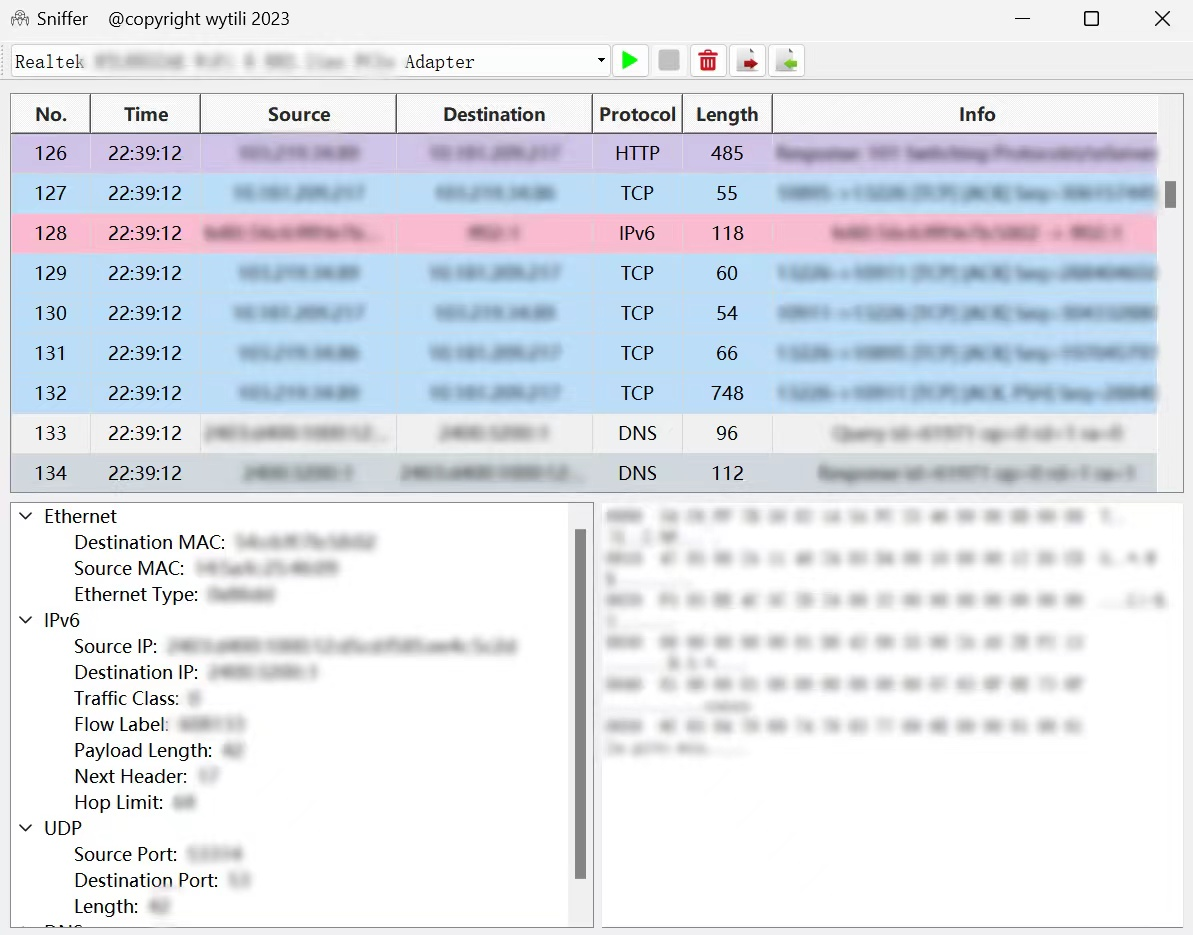
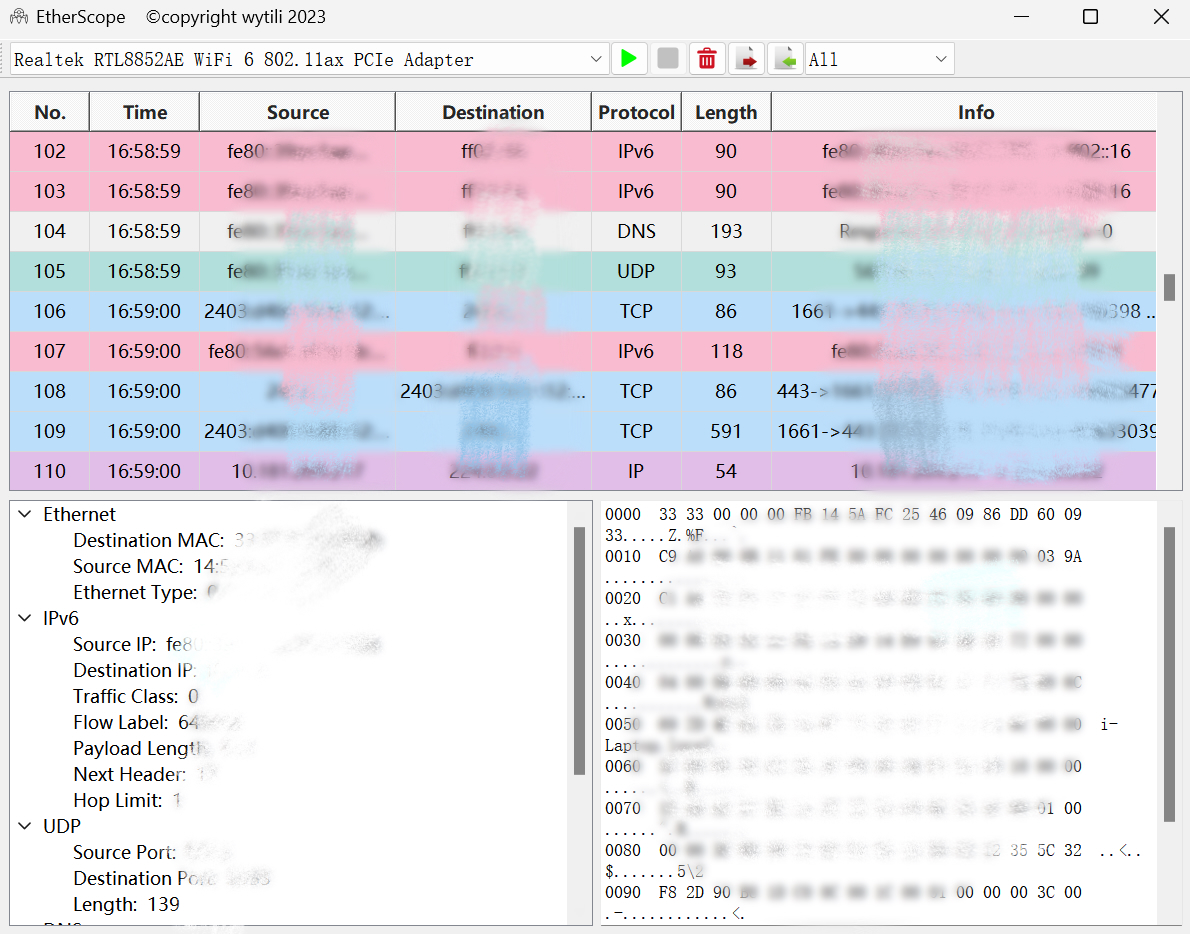
EtherScope v1.0.0

diff --git a/source/ui.py b/source/ui.py
@@ -24,7 +24,7 @@ class SnifferWindow(QMainWindow):
             ctypes.windll.shell32.SetCurrentProcessExplicitAppUserModelID("sniffer")
 
     def initUI(self):
-        self.setWindowTitle('Sniffer    ©copyright wytili 2023')
+        self.setWindowTitle('EtherScope    ©copyright wytili 2023')
         self.setWindowIcon(QIcon('assets/logo.svg'))
         self.setGeometry(300, 300, 1200, 900)
         self.create_central_widget()  # show packets in table

diff --git a/README.md b/README.md
@@ -1,7 +1,7 @@
 <p align="center">
   <img src="source/assets/logo.svg" width="100" height="100" style="vertical-align: middle;" />
 </p>
-<h1 align="center">Sniffer</h1>
+<h1 align="center">EtherScope</h1>
 
 
 > <p align="center">
@@ -12,12 +12,30 @@
 	<img src="source/assets/screenshot.jpg" width=650 height=500>
 </p>
 
+## QuickStart
 
+Download the latest executable from the [Releases page](https://github.com/wytili/EtherScope/releases).
+
+After downloading, double-click the executable file to start the application.
+
+## Start from Source
+
+1. **Install dependencies**
+
+   ```sh
+   pip install pyqt5 scapy
+   ```
+
+2. **Run**
+
+   ```sh
+   python main.py
+   ```
 
 ## File Structure
 
 ```
-Sniffer/
+EtherScope/
 │
 ├── source/
 │   ├── main.py              # entry point
@@ -27,10 +45,7 @@ Sniffer/
 │   └── assets/           	 # directory to store images
 │── README.md
 └── LICENSE.txt              
-
 ```
-
-
 
 ## TODO
 
@@ -38,7 +53,7 @@ Sniffer/
 - [x] import
 - [x] export
 - [x] restrictions between buttons
-- [ ] filter
-- [ ] more protocols
-- [ ] ...
+- [x] filter
+- [ ] support for more protocols
+- [ ] ......
 
